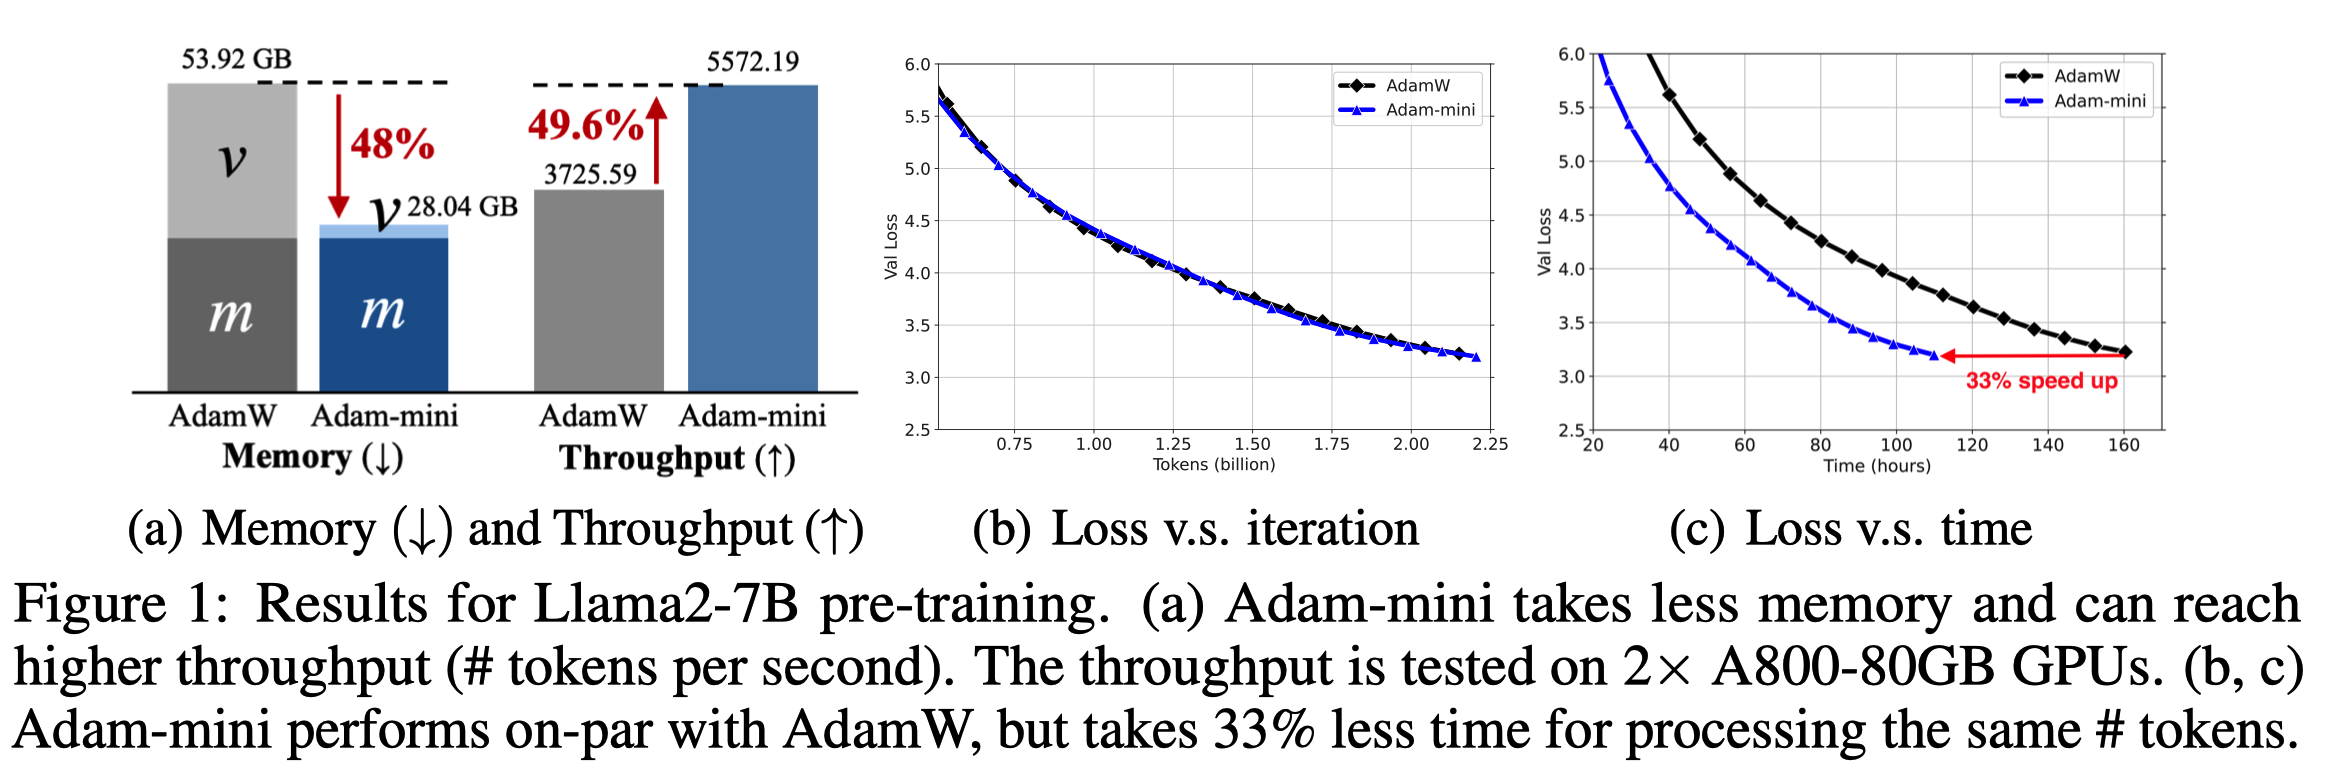
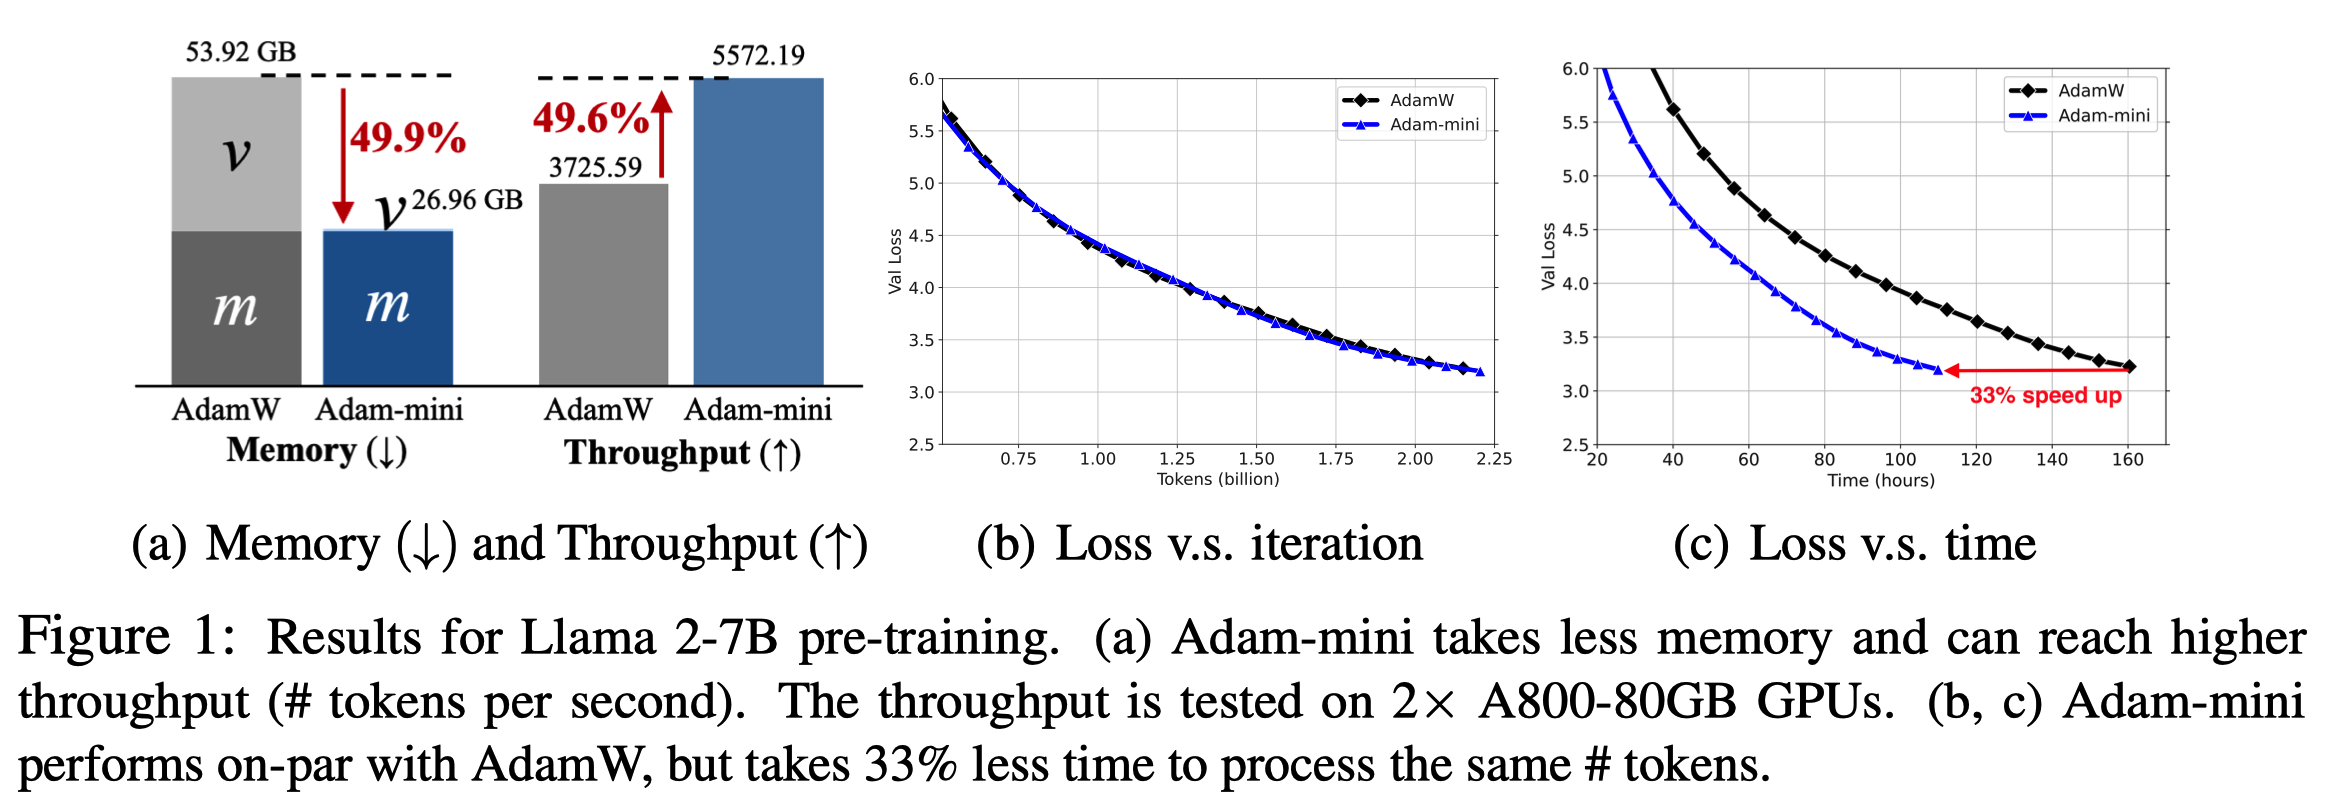
v1.1.0

diff --git a/README.md b/README.md
@@ -1,19 +1,23 @@
 # Adam-mini
 
+**【Important notice!!!】** We are happy to anounce that we have updated Adam-mini to **version 1.1.0** in PyPI (see [here](https://pypi.org/project/adam-mini/)). This is a major update: based on more careful Hessian investigation of Transformers, we change the partition strategies for Values, attn_proj, MLPs, embedding, and the output layer. In particular, our new partition strategy  for the embedding & output layer eliminates the need for Adam-mini to treat these these layers as special cases. As a result, Adam-mini now saves 50% memory over Adam for all models of any size (previously is 45% to 50% reduction for >1B models).  The updated form of Adam-mini is shown in **Algorithm 1** and the paper will be updated accordingly very soon.
+
+
+
 This repository contains the official PyTorch implementation of Adam-mini optimizer, a mini-version of Adam that achieves on-par or better performance than AdamW with **50%** less memory footprint.
 
-Adam-mini reduces memory by cutting down the learning rate (lr) resources in Adam (i.e., $1/\sqrt{v}$): we argue that >99% of these lr in $v$ could be harmlessly removed if we:
+Adam-mini reduces memory by cutting down the learning rate (lr) resources in Adam (i.e., $1/\sqrt{v}$): we argue that **>99.9%** of these lr in $v$ could be harmlessly removed if we:
 
 (1) carefully partition the parameters into blocks following our proposed principle related to **Hessian structure**.  
 (2) assign a single **but good** lr to each parameter block.
 
-We find a cheap and effective way to reach these requirements. The resulting algorithm is shown below in **Algorithm 1**. Check out more detailed descriptions in our paper: [Adam-mini: Use Fewer Learning Rates To Gain More](https://arxiv.org/abs/2406.16793).
+We find a simple and effective way to reach these requirements. The resulting algorithm is shown below in **Algorithm 1**. Check out more detailed descriptions in our paper: [Adam-mini: Use Fewer Learning Rates To Gain More](https://arxiv.org/abs/2406.16793).
 
 <img src="figures/figure1.png" style="zoom:40%;" />
 
 <img src="figures/illustration.png" style="zoom:40%;" />
 
-![](figures/adam-mini.png)
+![](figures/adam-mini-v1.1.0.png)
 
 ## How to use
 
@@ -93,7 +97,7 @@ bash run_gpt2.sh
 
 You will get the following curves.
 
-<img src="figures/gpt2.png" style="zoom:40%;" />
+<img src="figures/gpt2.png" style="zoom:100%;" />
 
 
 
@@ -137,11 +141,11 @@ bash run_llama_2_scaling_law.sh
 
 You can get the following curves (after changing x-axis into FLOPs and taking log)
 
-<img src="figures/1007_scaling_law.png" style="zoom:150%;" />
+<img src="figures/scaling_law.png" style="zoom:100%;" />
 
 After a complete pre-training run by Chinchilla's law, you will get the following the final validation perplexity.
 
-<img src="figures/perplexity_table.png" style="zoom:150%;" />
+<img src="figures/perplexity_table.png" style="zoom:100%;" />
 
 In particular, the training curves of 1B model will look like the following.
 
